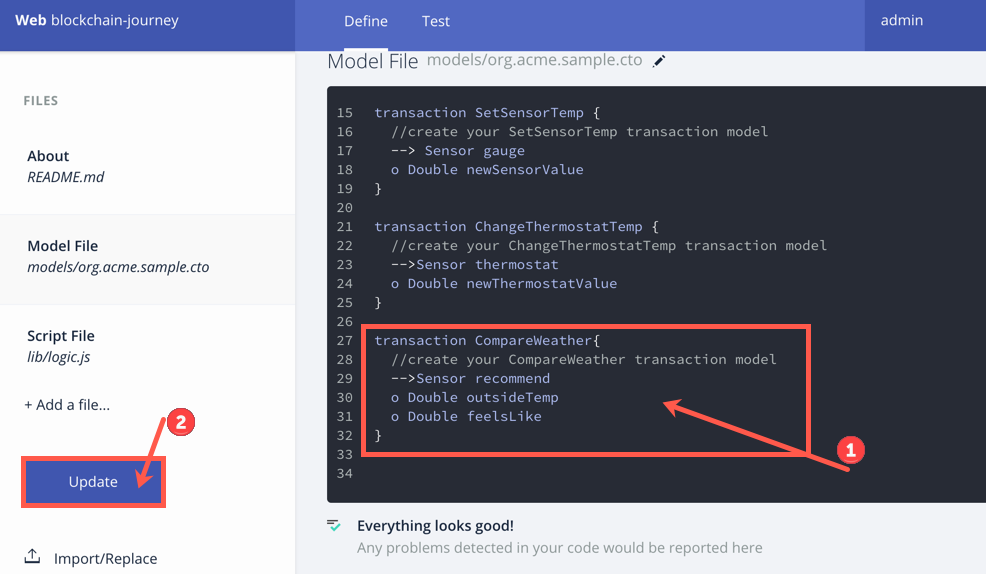
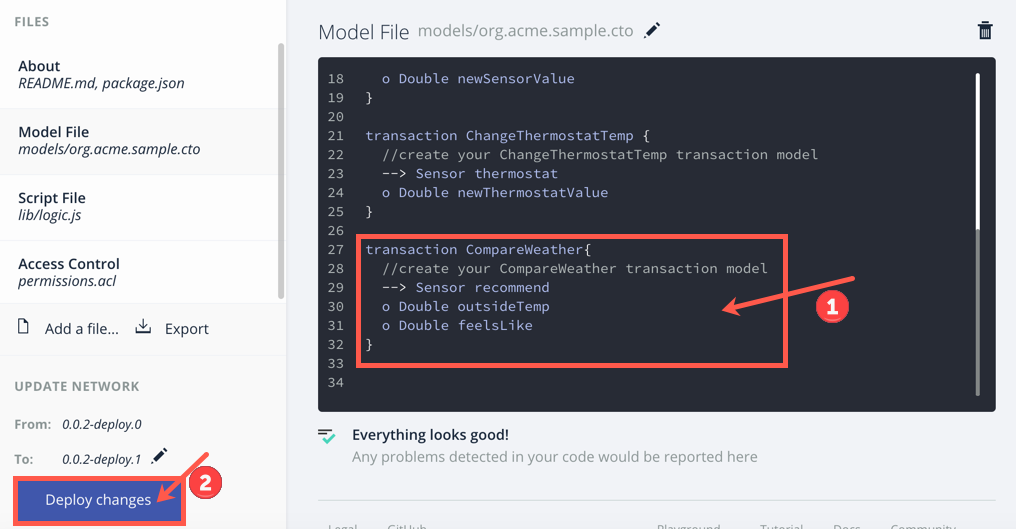
Update README.md

diff --git a/labs/composer/README.md b/labs/composer/README.md
@@ -146,7 +146,9 @@ In this section of the lab, you will use PuTTy to connect to your LinuxONE guest
 
 #### Importing the components of your blockchain application
 
-1. On your workstation desktop, you will find a folder named `code`. This folder contains the artifacts you will need for the following steps.
+1. To get the base code files you'll be working with, you'll need to clone the GitHub repo. In a place of your choosing on your laptop:
+
+   `git clone https://github.com/GuiGui2/Fabric-Workshop-CA.git`
 
 2. Go back to your browser that has Composer Playground open. If you've closed it, you can open it in your browser by entering `xxx.xxx.x.x:8080` into the address bar where the x's correspond to your Linux guest's IP address.
 
@@ -183,23 +185,27 @@ In this section of the lab, you will use PuTTy to connect to your LinuxONE guest
 
     ![Select browse.](images/SelectBrowse.png)
 
-13. In the file explorer window, navigate to where you downloaded the files. Refer to step 5 if you need help finding this location. **Select** *README.md* and **Click** *Open*.
-   ![Select README.md](images/SelectREADME.png)
+9. In the file explorer window, navigate to where you downloaded the files from GitHub. 
 
-14. **Select** *Add*.
-   ![Select Add.](images/AddREADME.png)
-
-15. On the *Current file will be replaced* dialog, **select** *Replace*.
-
-![Select Add.](images/READMEReplace.png)
-
-12. Let's keep adding the files to the Composer Playground.  **Repeat steps 11-15 to add the following files**:
+  **In the `. . ./Fabric-Workshop-CA/labs/composer/code/` add the following:**
 
 * *org.acme.sample.cto* — This is located in the models folder. In this exercise you'll use this file to create a model for your asset and transactions. You could also create participants in this file. This is similar to creating a Java class and defining what you would need in the class.
 * *logic.js* — This is located in the lib folder. This is a JavaScript file that becomes the brains of your application. In this file is code, your smart contract, that defines how a transaction can happen. This is similar to Java methods.
 * **Add last:** *permissions.acl* — This is where you would limit permissions for participants in a blockchain network.
 
-13. Your files are all now loaded into Composer Playground. **Click** *Update* on the left side of the browser. 
+10. Remove the empty model file from your Composer Playground.
+
+* `models/model.cto`
+
+  ![Delete model.cto.](images/DeleteFiles.png)
+
+  ![Select Delete File.](images/DeleteFile.png)
+
+  
+
+  
+
+13. Your files are all now loaded into Composer Playground. **Click** *Deploy Changes* on the left side of the browser. 
 
 ![Click Deploy.](images/InitialDeploy.png)
 
@@ -229,7 +235,7 @@ In this section of the lab, you will use PuTTy to connect to your LinuxONE guest
 
 * `o String recommendation`— this will be populated based on the `CompareWeather` transaction.
 
-* **Click** *Update* to save changes.
+* **Click** *Deploy changes* to save changes.
 
   ![Sensor model](images/SensorModel.png)
 
@@ -239,7 +245,7 @@ In this section of the lab, you will use PuTTy to connect to your LinuxONE guest
 
 * `o Double newSensorValue` — This is the variable that will be set by the temperature passed into the transaction from the NodeRed Sensor for picking up temperature.
 
-* *Click** *Deploy* to save changes.
+* *Click** *Deploy changes* to save changes.
 
   ![Create SetSensorTemp model](images/SetSensorTempModel.png)
 
@@ -249,7 +255,7 @@ In this section of the lab, you will use PuTTy to connect to your LinuxONE guest
 
 * `o Double newThermostatValue` — This allows for a new, proposed value to be sent into the transaction. In the logic tab, we will use this value to compare to what the gauge says and decide if the thermostat value should be adjusted.
 
-* **Click** *Update* to save changes.
+* **Click** *Deploy changes* to save changes.
 
   ![Create ChangeThermostatTemp model](images/ChangeThermostatModel.png)
 
@@ -260,7 +266,7 @@ In this section of the lab, you will use PuTTy to connect to your LinuxONE guest
 
 * `o Double feelsLike`— the variable to store the feels_like value from Weather.com.
 
-* **Click** *Update* to save changes.
+* **Click** *Deploy changes* to save changes.
 
   ![create CompareWeather model](images/CompareWeatherModel.png)
 
